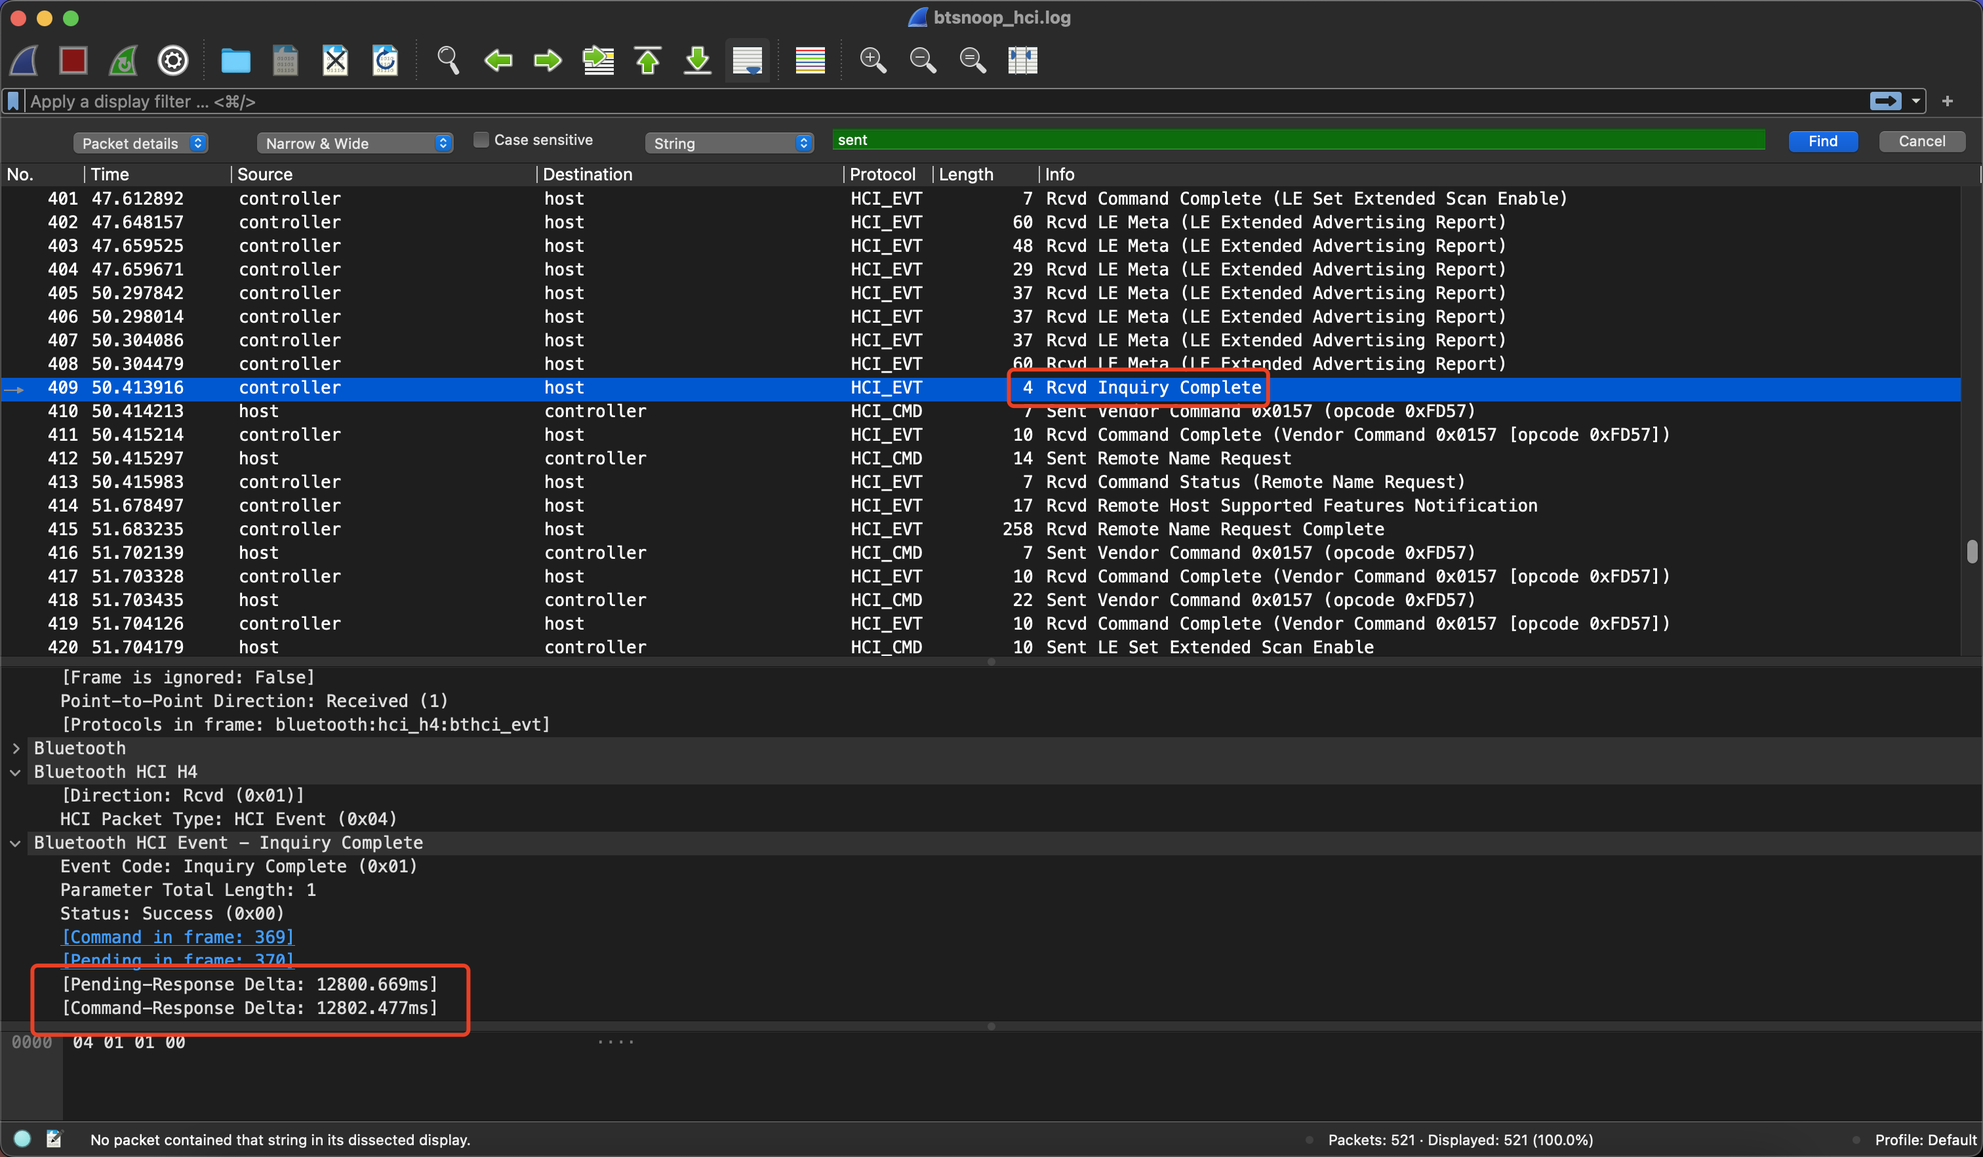
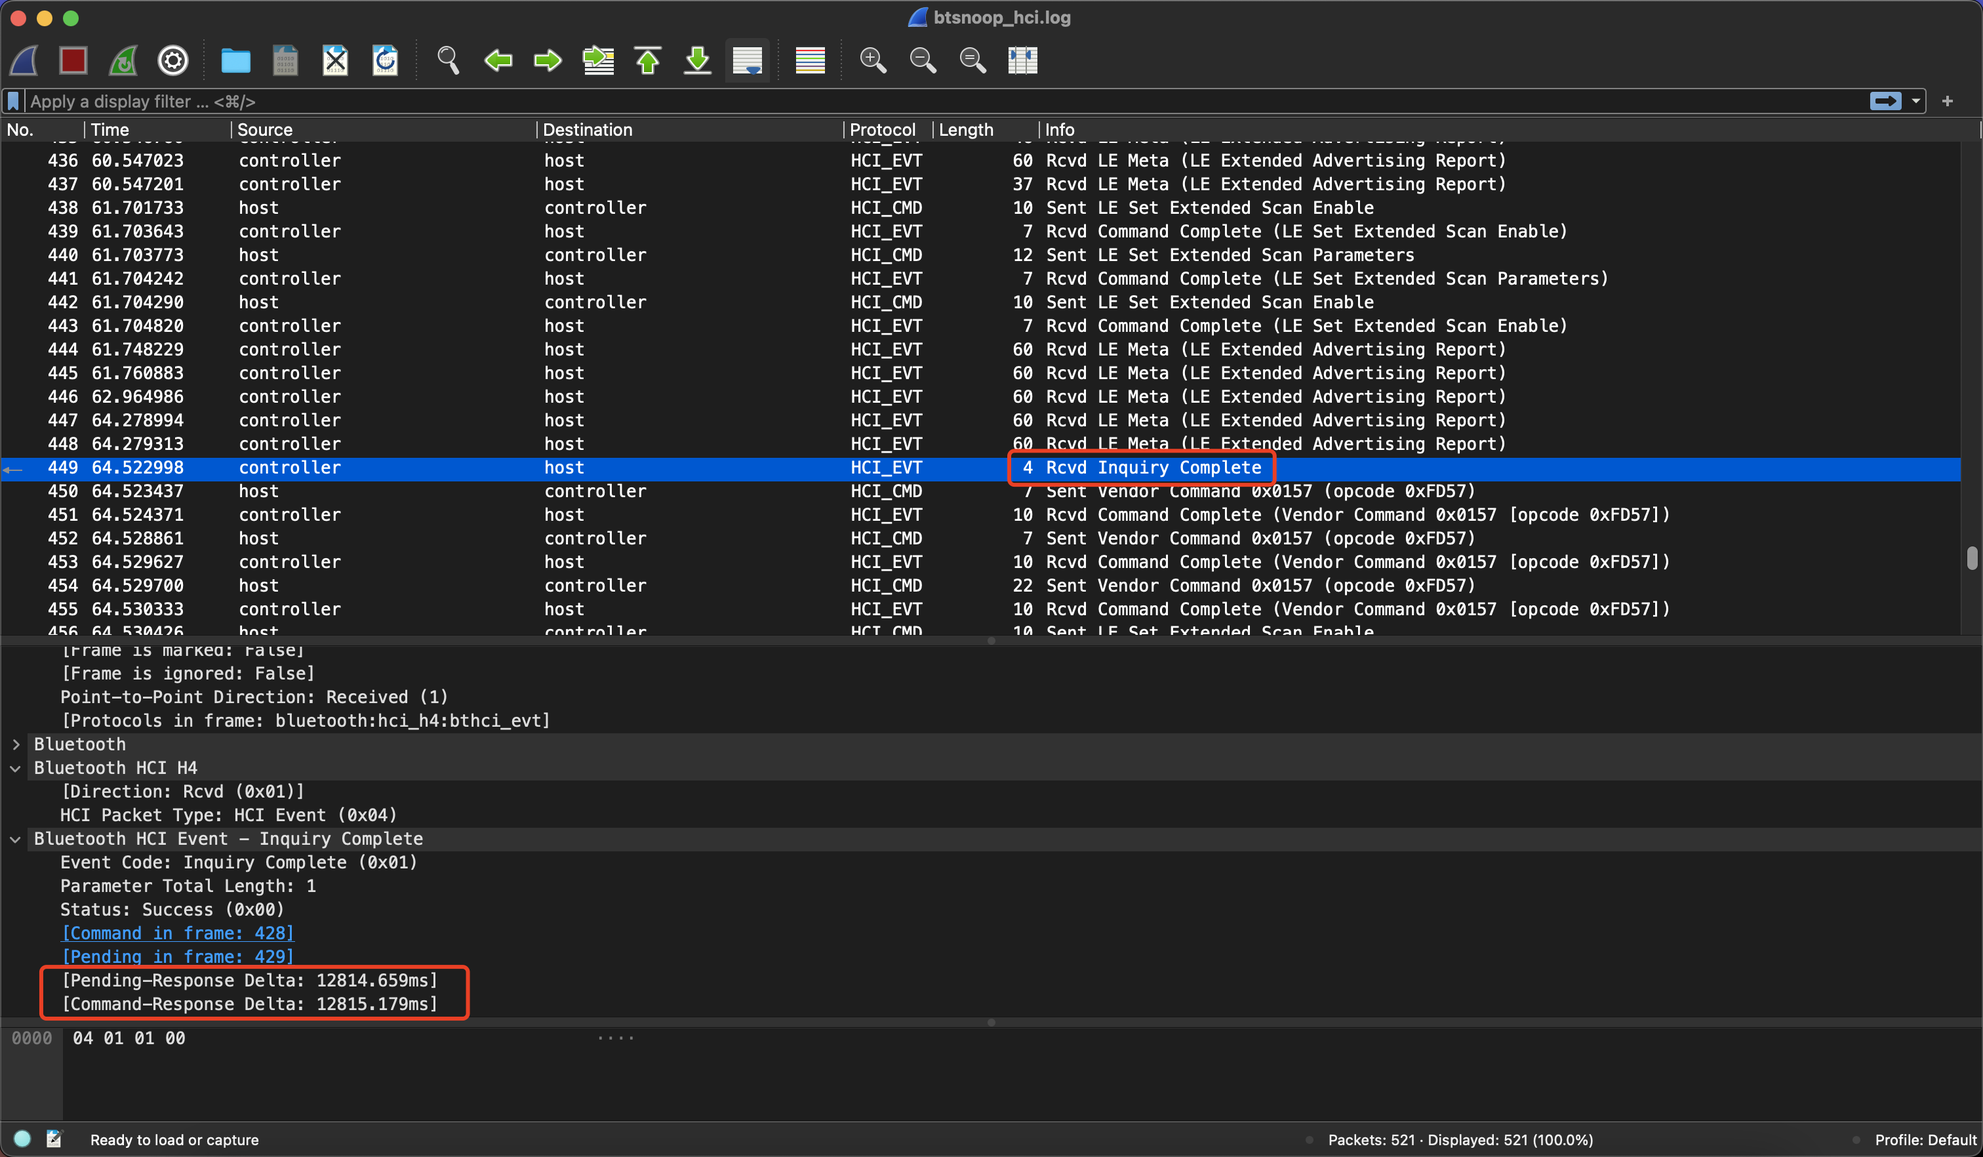
Site updated: 2022-12-23 17:26:03

Changed region(s): [[0.0, 0.0935, 0.9947, 0.9042], [0.0622, 0.9666, 0.2176, 0.9977], [0.9947, 0.4677, 1.0, 0.4989]]

diff --git a/index.html b/index.html
@@ -99,12 +99,12 @@
 <li>其他的蓝牙设备：无线蓝牙鼠标、无线蓝牙键盘、带蓝牙功能手机</li>
 </ol>
 <h1 id="开始"><a href="#开始" class="headerlink" title="开始"></a>开始</h1><p>获取蓝牙数据包，我采用的是手机开启开发者模式，开启Bluetooth HCI snoop log，并使用adb bugreport turnonphoneandscan.zip，将日志保存到本地电脑读取btsnoop_hci.log文件。实际搜索过程中发现有一些文章通过&#x2F;sdcard目录也能直接导出btsnoop_hci.log文件，但是我的没成功，只能用比较麻烦的方式先能实现效果，优雅程度以后再说。</p>
-<h2 id="扫描，流量包分析"><a href="#扫描，流量包分析" class="headerlink" title="扫描，流量包分析"></a>扫描，流量包分析</h2><p>1、通过现象看本质<br>此处通过在手机上开启蓝牙，添加匹配新设备（扫描）的时候的数据包<br><img src="https://github.com/Dhayser/dhayser.github.io/blob/main/2022/12/23/Bluetooth%E6%8A%93%E5%8C%85%E5%88%86%E6%9E%90%E5%88%9D%E8%AF%86/1.png"><br><img src="https://github.com/Dhayser/dhayser.github.io/blob/main/2022/12/23/Bluetooth%E6%8A%93%E5%8C%85%E5%88%86%E6%9E%90%E5%88%9D%E8%AF%86/2.png"><br><img src="https://github.com/Dhayser/dhayser.github.io/blob/main/2022/12/23/Bluetooth%E6%8A%93%E5%8C%85%E5%88%86%E6%9E%90%E5%88%9D%E8%AF%86/3.png"></p>
+<h2 id="扫描，流量包分析"><a href="#扫描，流量包分析" class="headerlink" title="扫描，流量包分析"></a>扫描，流量包分析</h2><p>1、通过现象看本质<br>此处通过在手机上开启蓝牙，添加匹配新设备（扫描）的时候的数据包。在扫描的时候host会发给controller指令，让controller在12.8s之内去寻找蓝牙设备，开始会约定扫描的时间<br><img src="https://github.com/Dhayser/dhayser.github.io/blob/main/2022/12/23/Bluetooth%E6%8A%93%E5%8C%85%E5%88%86%E6%9E%90%E5%88%9D%E8%AF%86/2.png"><br>扫描结束之后，<br><img src="https://github.com/Dhayser/dhayser.github.io/blob/main/2022/12/23/Bluetooth%E6%8A%93%E5%8C%85%E5%88%86%E6%9E%90%E5%88%9D%E8%AF%86/3.png"><br><img src="https://github.com/Dhayser/dhayser.github.io/blob/main/2022/12/23/Bluetooth%E6%8A%93%E5%8C%85%E5%88%86%E6%9E%90%E5%88%9D%E8%AF%86/1.png"></p>
 
       
     </div>
     <footer class="article-footer">
-      <a data-url="https://dhayser.github.io/2022/12/23/Bluetooth%E6%8A%93%E5%8C%85%E5%88%86%E6%9E%90%E5%88%9D%E8%AF%86/" data-id="clc0avb1q0001cchf0emc206j" data-title="Bluetooth抓包分析初识" class="article-share-link">Share</a>
+      <a data-url="https://dhayser.github.io/2022/12/23/Bluetooth%E6%8A%93%E5%8C%85%E5%88%86%E6%9E%90%E5%88%9D%E8%AF%86/" data-id="clc0b5ff10002p4hfcbkddqta" data-title="Bluetooth抓包分析初识" class="article-share-link">Share</a>
       
       
       
@@ -156,7 +156,7 @@
       
     </div>
     <footer class="article-footer">
-      <a data-url="https://dhayser.github.io/2022/12/07/webpack%E5%89%8D%E7%AB%AF%E6%BA%90%E7%A0%81%E8%BF%98%E5%8E%9F%E6%BC%8F%E6%B4%9E/" data-id="clc0avb1s0006cchf716t2zn4" data-title="webpack前端源码还原漏洞" class="article-share-link">Share</a>
+      <a data-url="https://dhayser.github.io/2022/12/07/webpack%E5%89%8D%E7%AB%AF%E6%BA%90%E7%A0%81%E8%BF%98%E5%8E%9F%E6%BC%8F%E6%B4%9E/" data-id="clc0b5ff20006p4hfbviudll2" data-title="webpack前端源码还原漏洞" class="article-share-link">Share</a>
       
       
       
@@ -197,7 +197,7 @@
       
     </div>
     <footer class="article-footer">
-      <a data-url="https://dhayser.github.io/2022/11/30/%E5%86%85%E5%AD%98%E5%8F%96%E8%AF%81%E5%88%9D%E8%AF%86%EF%BC%88%E4%B8%80%EF%BC%89/" data-id="clc0avb1t0008cchfajx74b0q" data-title="内存取证初识（一）" class="article-share-link">Share</a>
+      <a data-url="https://dhayser.github.io/2022/11/30/%E5%86%85%E5%AD%98%E5%8F%96%E8%AF%81%E5%88%9D%E8%AF%86%EF%BC%88%E4%B8%80%EF%BC%89/" data-id="clc0b5ff30007p4hf52706jfj" data-title="内存取证初识（一）" class="article-share-link">Share</a>
       
       
       
@@ -236,7 +236,7 @@
       
     </div>
     <footer class="article-footer">
-      <a data-url="https://dhayser.github.io/2022/11/28/74CMS%E5%88%86%E6%9E%90%E6%80%BB%E7%BB%93/" data-id="clc0avb1o0000cchf4e6zhki3" data-title="74CMS分析总结" class="article-share-link">Share</a>
+      <a data-url="https://dhayser.github.io/2022/11/28/74CMS%E5%88%86%E6%9E%90%E6%80%BB%E7%BB%93/" data-id="clc0b5fex0000p4hfftnk8yup" data-title="74CMS分析总结" class="article-share-link">Share</a>
       
       
       
@@ -294,7 +294,7 @@
       
     </div>
     <footer class="article-footer">
-      <a data-url="https://dhayser.github.io/2022/11/26/BeanShell%E4%BB%BB%E6%84%8F%E5%91%BD%E4%BB%A4%E6%89%A7%E8%A1%8C/" data-id="clc0avb1s0003cchfh2hj5lj3" data-title="BeanShell任意命令执行" class="article-share-link">Share</a>
+      <a data-url="https://dhayser.github.io/2022/11/26/BeanShell%E4%BB%BB%E6%84%8F%E5%91%BD%E4%BB%A4%E6%89%A7%E8%A1%8C/" data-id="clc0b5ff00001p4hfdaik3yxo" data-title="BeanShell任意命令执行" class="article-share-link">Share</a>
       
       
       
@@ -352,7 +352,7 @@
       
     </div>
     <footer class="article-footer">
-      <a data-url="https://dhayser.github.io/2022/11/24/%E5%86%85%E7%BD%91%E6%B8%97%E9%80%8F%E7%BB%8F%E9%AA%8C%E8%AE%B0%E5%BD%95/" data-id="clc0avb1t0007cchf4wa93a8r" data-title="内网渗透经验记录" class="article-share-link">Share</a>
+      <a data-url="https://dhayser.github.io/2022/11/24/%E5%86%85%E7%BD%91%E6%B8%97%E9%80%8F%E7%BB%8F%E9%AA%8C%E8%AE%B0%E5%BD%95/" data-id="clc0b5ff30008p4hf1ygpdxqm" data-title="内网渗透经验记录" class="article-share-link">Share</a>
       
       
       
@@ -398,7 +398,7 @@
       
     </div>
     <footer class="article-footer">
-      <a data-url="https://dhayser.github.io/2022/11/22/BurpSuite%E6%8F%92%E4%BB%B6%E5%BC%80%E5%8F%91/" data-id="clc0avb1r0002cchf1w2p7gat" data-title="BurpSuite插件开发" class="article-share-link">Share</a>
+      <a data-url="https://dhayser.github.io/2022/11/22/BurpSuite%E6%8F%92%E4%BB%B6%E5%BC%80%E5%8F%91/" data-id="clc0b5ff10003p4hf9po5e8rl" data-title="BurpSuite插件开发" class="article-share-link">Share</a>
       
       
       
@@ -500,7 +500,7 @@
       
     </div>
     <footer class="article-footer">
-      <a data-url="https://dhayser.github.io/2022/11/15/Fastjson%E5%8F%8D%E5%BA%8F%E5%88%97%E5%8C%96%E6%BC%8F%E6%B4%9E%E5%8E%9F%E7%90%86%E5%8F%8A%E6%A3%80%E6%B5%8B%E5%88%A9%E7%94%A8/" data-id="clc0avb1s0004cchf4loshezg" data-title="Fastjson反序列化漏洞原理及检测利用" class="article-share-link">Share</a>
+      <a data-url="https://dhayser.github.io/2022/11/15/Fastjson%E5%8F%8D%E5%BA%8F%E5%88%97%E5%8C%96%E6%BC%8F%E6%B4%9E%E5%8E%9F%E7%90%86%E5%8F%8A%E6%A3%80%E6%B5%8B%E5%88%A9%E7%94%A8/" data-id="clc0b5ff20004p4hf6w9x36sx" data-title="Fastjson反序列化漏洞原理及检测利用" class="article-share-link">Share</a>
       
       
       
@@ -540,7 +540,7 @@
       
     </div>
     <footer class="article-footer">
-      <a data-url="https://dhayser.github.io/2022/11/11/%E9%9D%9E%E6%8E%88%E6%9D%83%E8%AE%BF%E9%97%AE/" data-id="clc0avb1u000acchfbs3zevtx" data-title="非授权访问漏洞" class="article-share-link">Share</a>
+      <a data-url="https://dhayser.github.io/2022/11/11/%E9%9D%9E%E6%8E%88%E6%9D%83%E8%AE%BF%E9%97%AE/" data-id="clc0b5ff4000ap4hf0sgt8aon" data-title="非授权访问漏洞" class="article-share-link">Share</a>
       
       
       
@@ -581,7 +581,7 @@
       
     </div>
     <footer class="article-footer">
-      <a data-url="https://dhayser.github.io/2022/11/08/%E8%AE%BE%E5%A4%87%E7%BC%BA%E7%9C%81%E5%8F%A3%E4%BB%A4/" data-id="clc0avb1u0009cchfb39i3p25" data-title="设备缺省口令" class="article-share-link">Share</a>
+      <a data-url="https://dhayser.github.io/2022/11/08/%E8%AE%BE%E5%A4%87%E7%BC%BA%E7%9C%81%E5%8F%A3%E4%BB%A4/" data-id="clc0b5ff30009p4hf1xlofafp" data-title="设备缺省口令" class="article-share-link">Share</a>
       
       
       

diff --git a/2022/12/23/Bluetooth抓包分析初识/index.html b/2022/12/23/Bluetooth抓包分析初识/index.html
@@ -13,14 +13,14 @@
 <meta property="og:site_name" content="Dhayser&#39;s space">
 <meta property="og:description" content="原由工作有接触到蓝牙，但是一直没有很好的理解，于是尝试一下从数据包分析一下。使用工具 安卓手机 Pixel3 笔记本电脑 其他的蓝牙设备：无线蓝牙鼠标、无线蓝牙键盘、带蓝牙功能手机  开始获取蓝牙数据包，我采用的是手机开启开发者模式，开启Bluetooth HCI snoop log，并使用adb bugreport turnonphoneandscan.zip，将日志保存到本地电脑读取btsno">
 <meta property="og:locale" content="en_US">
-<meta property="og:image" content="https://github.com/Dhayser/dhayser.github.io/blob/main/2022/12/23/Bluetooth%E6%8A%93%E5%8C%85%E5%88%86%E6%9E%90%E5%88%9D%E8%AF%86/1.png">
 <meta property="og:image" content="https://github.com/Dhayser/dhayser.github.io/blob/main/2022/12/23/Bluetooth%E6%8A%93%E5%8C%85%E5%88%86%E6%9E%90%E5%88%9D%E8%AF%86/2.png">
 <meta property="og:image" content="https://github.com/Dhayser/dhayser.github.io/blob/main/2022/12/23/Bluetooth%E6%8A%93%E5%8C%85%E5%88%86%E6%9E%90%E5%88%9D%E8%AF%86/3.png">
+<meta property="og:image" content="https://github.com/Dhayser/dhayser.github.io/blob/main/2022/12/23/Bluetooth%E6%8A%93%E5%8C%85%E5%88%86%E6%9E%90%E5%88%9D%E8%AF%86/1.png">
 <meta property="article:published_time" content="2022-12-23T08:23:33.000Z">
-<meta property="article:modified_time" content="2022-12-23T09:18:06.867Z">
+<meta property="article:modified_time" content="2022-12-23T09:21:26.448Z">
 <meta property="article:author" content="Dhayser Li">
 <meta name="twitter:card" content="summary">
-<meta name="twitter:image" content="https://github.com/Dhayser/dhayser.github.io/blob/main/2022/12/23/Bluetooth%E6%8A%93%E5%8C%85%E5%88%86%E6%9E%90%E5%88%9D%E8%AF%86/1.png">
+<meta name="twitter:image" content="https://github.com/Dhayser/dhayser.github.io/blob/main/2022/12/23/Bluetooth%E6%8A%93%E5%8C%85%E5%88%86%E6%9E%90%E5%88%9D%E8%AF%86/2.png">
   
     <link rel="alternate" href="/atom.xml" title="Dhayser's space" type="application/atom+xml">
   
@@ -105,12 +105,12 @@
 <li>其他的蓝牙设备：无线蓝牙鼠标、无线蓝牙键盘、带蓝牙功能手机</li>
 </ol>
 <h1 id="开始"><a href="#开始" class="headerlink" title="开始"></a>开始</h1><p>获取蓝牙数据包，我采用的是手机开启开发者模式，开启Bluetooth HCI snoop log，并使用adb bugreport turnonphoneandscan.zip，将日志保存到本地电脑读取btsnoop_hci.log文件。实际搜索过程中发现有一些文章通过&#x2F;sdcard目录也能直接导出btsnoop_hci.log文件，但是我的没成功，只能用比较麻烦的方式先能实现效果，优雅程度以后再说。</p>
-<h2 id="扫描，流量包分析"><a href="#扫描，流量包分析" class="headerlink" title="扫描，流量包分析"></a>扫描，流量包分析</h2><p>1、通过现象看本质<br>此处通过在手机上开启蓝牙，添加匹配新设备（扫描）的时候的数据包<br><img src="https://github.com/Dhayser/dhayser.github.io/blob/main/2022/12/23/Bluetooth%E6%8A%93%E5%8C%85%E5%88%86%E6%9E%90%E5%88%9D%E8%AF%86/1.png"><br><img src="https://github.com/Dhayser/dhayser.github.io/blob/main/2022/12/23/Bluetooth%E6%8A%93%E5%8C%85%E5%88%86%E6%9E%90%E5%88%9D%E8%AF%86/2.png"><br><img src="https://github.com/Dhayser/dhayser.github.io/blob/main/2022/12/23/Bluetooth%E6%8A%93%E5%8C%85%E5%88%86%E6%9E%90%E5%88%9D%E8%AF%86/3.png"></p>
+<h2 id="扫描，流量包分析"><a href="#扫描，流量包分析" class="headerlink" title="扫描，流量包分析"></a>扫描，流量包分析</h2><p>1、通过现象看本质<br>此处通过在手机上开启蓝牙，添加匹配新设备（扫描）的时候的数据包。在扫描的时候host会发给controller指令，让controller在12.8s之内去寻找蓝牙设备，开始会约定扫描的时间<br><img src="https://github.com/Dhayser/dhayser.github.io/blob/main/2022/12/23/Bluetooth%E6%8A%93%E5%8C%85%E5%88%86%E6%9E%90%E5%88%9D%E8%AF%86/2.png"><br>扫描结束之后，<br><img src="https://github.com/Dhayser/dhayser.github.io/blob/main/2022/12/23/Bluetooth%E6%8A%93%E5%8C%85%E5%88%86%E6%9E%90%E5%88%9D%E8%AF%86/3.png"><br><img src="https://github.com/Dhayser/dhayser.github.io/blob/main/2022/12/23/Bluetooth%E6%8A%93%E5%8C%85%E5%88%86%E6%9E%90%E5%88%9D%E8%AF%86/1.png"></p>
 
       
     </div>
     <footer class="article-footer">
-      <a data-url="https://dhayser.github.io/2022/12/23/Bluetooth%E6%8A%93%E5%8C%85%E5%88%86%E6%9E%90%E5%88%9D%E8%AF%86/" data-id="clc0avb1q0001cchf0emc206j" data-title="Bluetooth抓包分析初识" class="article-share-link">Share</a>
+      <a data-url="https://dhayser.github.io/2022/12/23/Bluetooth%E6%8A%93%E5%8C%85%E5%88%86%E6%9E%90%E5%88%9D%E8%AF%86/" data-id="clc0b5ff10002p4hfcbkddqta" data-title="Bluetooth抓包分析初识" class="article-share-link">Share</a>
       
       
       

diff --git a/2022/11/15/Fastjson反序列化漏洞原理及检测利用/index.html b/2022/11/15/Fastjson反序列化漏洞原理及检测利用/index.html
@@ -173,7 +173,7 @@
       
     </div>
     <footer class="article-footer">
-      <a data-url="https://dhayser.github.io/2022/11/15/Fastjson%E5%8F%8D%E5%BA%8F%E5%88%97%E5%8C%96%E6%BC%8F%E6%B4%9E%E5%8E%9F%E7%90%86%E5%8F%8A%E6%A3%80%E6%B5%8B%E5%88%A9%E7%94%A8/" data-id="clc0avb1s0004cchf4loshezg" data-title="Fastjson反序列化漏洞原理及检测利用" class="article-share-link">Share</a>
+      <a data-url="https://dhayser.github.io/2022/11/15/Fastjson%E5%8F%8D%E5%BA%8F%E5%88%97%E5%8C%96%E6%BC%8F%E6%B4%9E%E5%8E%9F%E7%90%86%E5%8F%8A%E6%A3%80%E6%B5%8B%E5%88%A9%E7%94%A8/" data-id="clc0b5ff20004p4hf6w9x36sx" data-title="Fastjson反序列化漏洞原理及检测利用" class="article-share-link">Share</a>
       
       
       

diff --git a/2022/12/07/webpack前端源码还原漏洞/index.html b/2022/12/07/webpack前端源码还原漏洞/index.html
@@ -120,7 +120,7 @@
       
     </div>
     <footer class="article-footer">
-      <a data-url="https://dhayser.github.io/2022/12/07/webpack%E5%89%8D%E7%AB%AF%E6%BA%90%E7%A0%81%E8%BF%98%E5%8E%9F%E6%BC%8F%E6%B4%9E/" data-id="clc0avb1s0006cchf716t2zn4" data-title="webpack前端源码还原漏洞" class="article-share-link">Share</a>
+      <a data-url="https://dhayser.github.io/2022/12/07/webpack%E5%89%8D%E7%AB%AF%E6%BA%90%E7%A0%81%E8%BF%98%E5%8E%9F%E6%BC%8F%E6%B4%9E/" data-id="clc0b5ff20006p4hfbviudll2" data-title="webpack前端源码还原漏洞" class="article-share-link">Share</a>
       
       
       

diff --git a/2022/11/30/内存取证初识（一）/index.html b/2022/11/30/内存取证初识（一）/index.html
@@ -102,7 +102,7 @@
       
     </div>
     <footer class="article-footer">
-      <a data-url="https://dhayser.github.io/2022/11/30/%E5%86%85%E5%AD%98%E5%8F%96%E8%AF%81%E5%88%9D%E8%AF%86%EF%BC%88%E4%B8%80%EF%BC%89/" data-id="clc0avb1t0008cchfajx74b0q" data-title="内存取证初识（一）" class="article-share-link">Share</a>
+      <a data-url="https://dhayser.github.io/2022/11/30/%E5%86%85%E5%AD%98%E5%8F%96%E8%AF%81%E5%88%9D%E8%AF%86%EF%BC%88%E4%B8%80%EF%BC%89/" data-id="clc0b5ff30007p4hf52706jfj" data-title="内存取证初识（一）" class="article-share-link">Share</a>
       
       
       

diff --git a/2022/11/06/curl工具连接webshell调试/index.html b/2022/11/06/curl工具连接webshell调试/index.html
@@ -109,7 +109,7 @@
       
     </div>
     <footer class="article-footer">
-      <a data-url="https://dhayser.github.io/2022/11/06/curl%E5%B7%A5%E5%85%B7%E8%BF%9E%E6%8E%A5webshell%E8%B0%83%E8%AF%95/" data-id="clc0avb1s0005cchf4ztb00hv" data-title="curl工具连接webshell调试" class="article-share-link">Share</a>
+      <a data-url="https://dhayser.github.io/2022/11/06/curl%E5%B7%A5%E5%85%B7%E8%BF%9E%E6%8E%A5webshell%E8%B0%83%E8%AF%95/" data-id="clc0b5ff20005p4hff1zp6j6f" data-title="curl工具连接webshell调试" class="article-share-link">Share</a>
       
       
       

diff --git a/2022/11/24/内网渗透经验记录/index.html b/2022/11/24/内网渗透经验记录/index.html
@@ -119,7 +119,7 @@
       
     </div>
     <footer class="article-footer">
-      <a data-url="https://dhayser.github.io/2022/11/24/%E5%86%85%E7%BD%91%E6%B8%97%E9%80%8F%E7%BB%8F%E9%AA%8C%E8%AE%B0%E5%BD%95/" data-id="clc0avb1t0007cchf4wa93a8r" data-title="内网渗透经验记录" class="article-share-link">Share</a>
+      <a data-url="https://dhayser.github.io/2022/11/24/%E5%86%85%E7%BD%91%E6%B8%97%E9%80%8F%E7%BB%8F%E9%AA%8C%E8%AE%B0%E5%BD%95/" data-id="clc0b5ff30008p4hf1ygpdxqm" data-title="内网渗透经验记录" class="article-share-link">Share</a>
       
       
       

diff --git a/page/2/index.html b/page/2/index.html
@@ -107,7 +107,7 @@
       
     </div>
     <footer class="article-footer">
-      <a data-url="https://dhayser.github.io/2022/11/06/curl%E5%B7%A5%E5%85%B7%E8%BF%9E%E6%8E%A5webshell%E8%B0%83%E8%AF%95/" data-id="clc0avb1s0005cchf4ztb00hv" data-title="curl工具连接webshell调试" class="article-share-link">Share</a>
+      <a data-url="https://dhayser.github.io/2022/11/06/curl%E5%B7%A5%E5%85%B7%E8%BF%9E%E6%8E%A5webshell%E8%B0%83%E8%AF%95/" data-id="clc0b5ff20005p4hff1zp6j6f" data-title="curl工具连接webshell调试" class="article-share-link">Share</a>
       
       
       

diff --git a/2022/11/26/BeanShell任意命令执行/index.html b/2022/11/26/BeanShell任意命令执行/index.html
@@ -125,7 +125,7 @@
       
     </div>
     <footer class="article-footer">
-      <a data-url="https://dhayser.github.io/2022/11/26/BeanShell%E4%BB%BB%E6%84%8F%E5%91%BD%E4%BB%A4%E6%89%A7%E8%A1%8C/" data-id="clc0avb1s0003cchfh2hj5lj3" data-title="BeanShell任意命令执行" class="article-share-link">Share</a>
+      <a data-url="https://dhayser.github.io/2022/11/26/BeanShell%E4%BB%BB%E6%84%8F%E5%91%BD%E4%BB%A4%E6%89%A7%E8%A1%8C/" data-id="clc0b5ff00001p4hfdaik3yxo" data-title="BeanShell任意命令执行" class="article-share-link">Share</a>
       
       
       

diff --git a/2022/11/08/设备缺省口令/index.html b/2022/11/08/设备缺省口令/index.html
@@ -102,7 +102,7 @@
       
     </div>
     <footer class="article-footer">
-      <a data-url="https://dhayser.github.io/2022/11/08/%E8%AE%BE%E5%A4%87%E7%BC%BA%E7%9C%81%E5%8F%A3%E4%BB%A4/" data-id="clc0avb1u0009cchfb39i3p25" data-title="设备缺省口令" class="article-share-link">Share</a>
+      <a data-url="https://dhayser.github.io/2022/11/08/%E8%AE%BE%E5%A4%87%E7%BC%BA%E7%9C%81%E5%8F%A3%E4%BB%A4/" data-id="clc0b5ff30009p4hf1xlofafp" data-title="设备缺省口令" class="article-share-link">Share</a>
       
       
       

diff --git a/2022/11/11/非授权访问/index.html b/2022/11/11/非授权访问/index.html
@@ -101,7 +101,7 @@
       
     </div>
     <footer class="article-footer">
-      <a data-url="https://dhayser.github.io/2022/11/11/%E9%9D%9E%E6%8E%88%E6%9D%83%E8%AE%BF%E9%97%AE/" data-id="clc0avb1u000acchfbs3zevtx" data-title="非授权访问漏洞" class="article-share-link">Share</a>
+      <a data-url="https://dhayser.github.io/2022/11/11/%E9%9D%9E%E6%8E%88%E6%9D%83%E8%AE%BF%E9%97%AE/" data-id="clc0b5ff4000ap4hf0sgt8aon" data-title="非授权访问漏洞" class="article-share-link">Share</a>
       
       
       

diff --git a/2022/11/22/BurpSuite插件开发/index.html b/2022/11/22/BurpSuite插件开发/index.html
@@ -107,7 +107,7 @@
       
     </div>
     <footer class="article-footer">
-      <a data-url="https://dhayser.github.io/2022/11/22/BurpSuite%E6%8F%92%E4%BB%B6%E5%BC%80%E5%8F%91/" data-id="clc0avb1r0002cchf1w2p7gat" data-title="BurpSuite插件开发" class="article-share-link">Share</a>
+      <a data-url="https://dhayser.github.io/2022/11/22/BurpSuite%E6%8F%92%E4%BB%B6%E5%BC%80%E5%8F%91/" data-id="clc0b5ff10003p4hf9po5e8rl" data-title="BurpSuite插件开发" class="article-share-link">Share</a>
       
       
       
